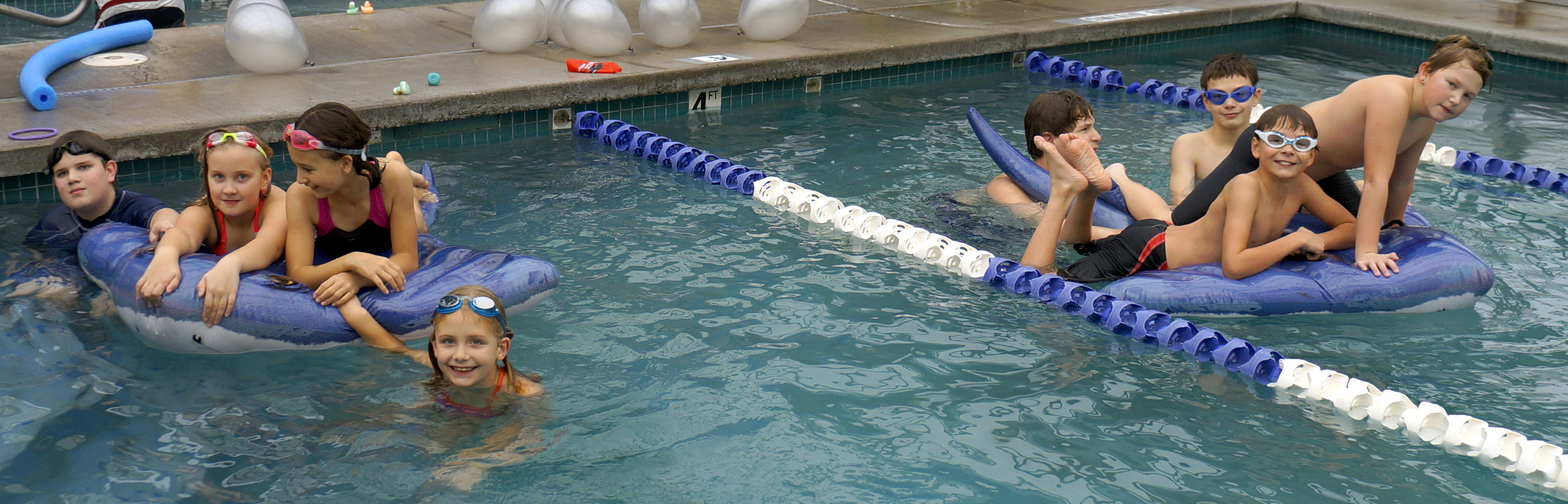
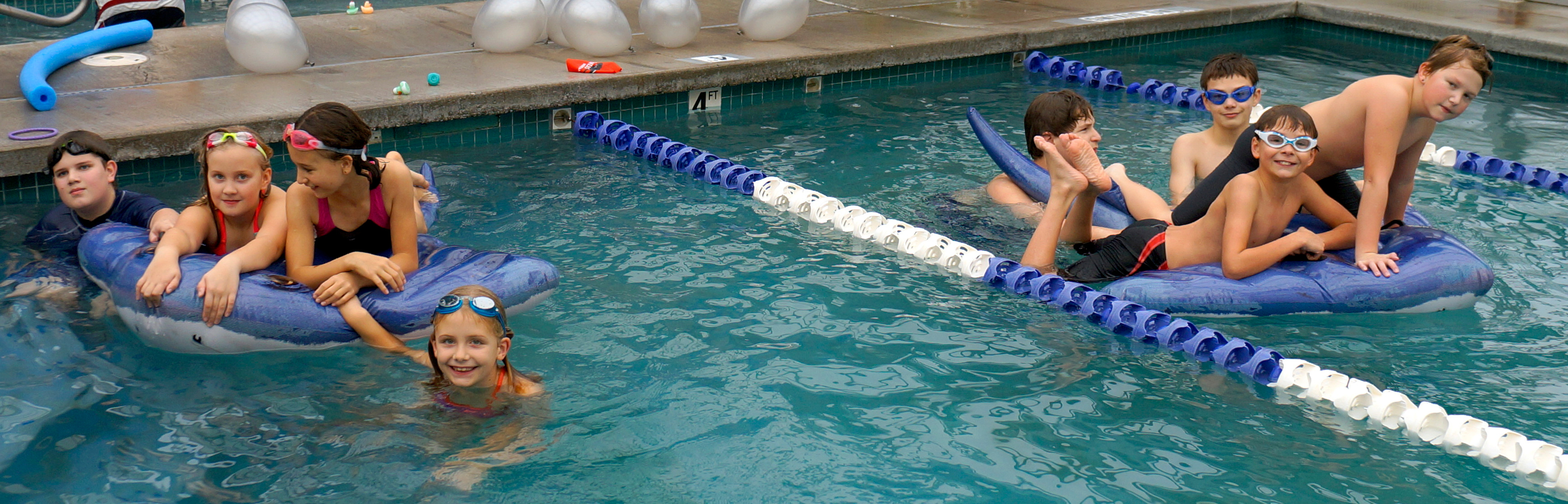
converted image files

diff --git a/pages/personal-training/1_on_1_training.js b/pages/personal-training/1_on_1_training.js
@@ -13,7 +13,7 @@ const oneOnOneTraining = ({data}) => {
                 <div className="h-screen w-screen absolute"style={{zIndex: -2}}>
                 <Image
                     alt="Background image"
-                    src="/1on1hero.jpeg"
+                    src="/1on1hero.jpg"
                     layout="fill"
                     objectFit="cover"
                     priority={true}

diff --git a/pages/personal-training/index.js b/pages/personal-training/index.js
@@ -17,7 +17,7 @@ const index = ({data}) => {
             <div className="h-screen top-52 md:top-0 w-screen absolute"style={{zIndex: -2}}>
             <Image
                 alt="Background image"
-                src="/ptlanding.jpeg"
+                src="/ptlanding.jpg"
                 layout="fill"
                 objectFit="cover"
                 priority={true}
